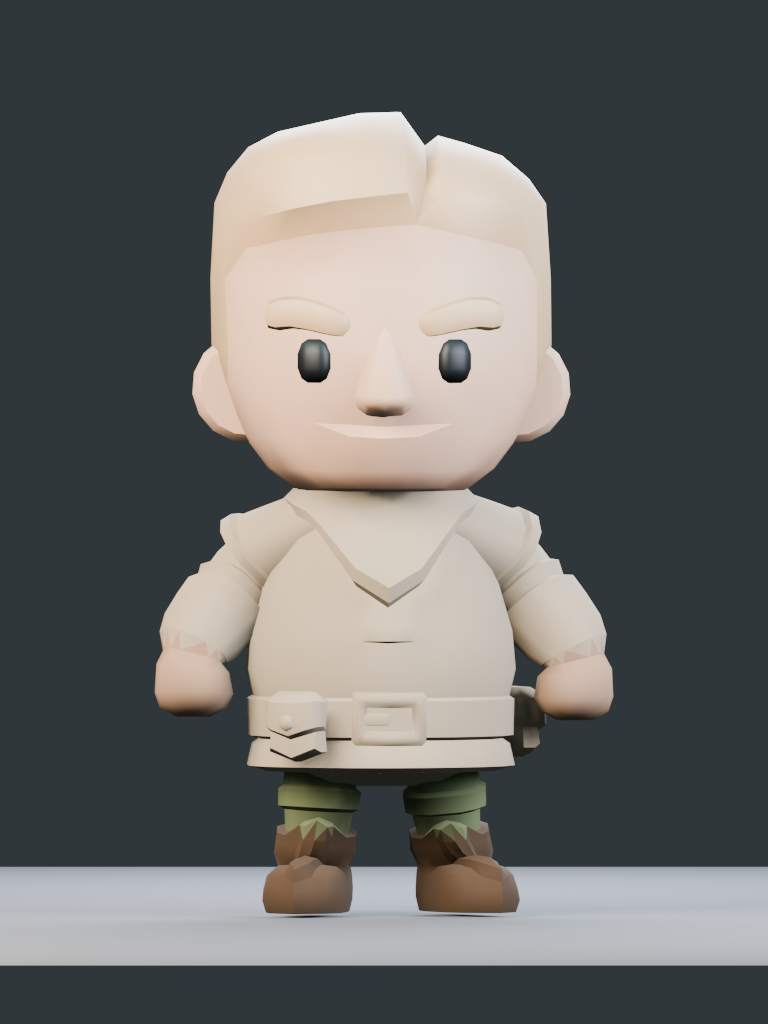
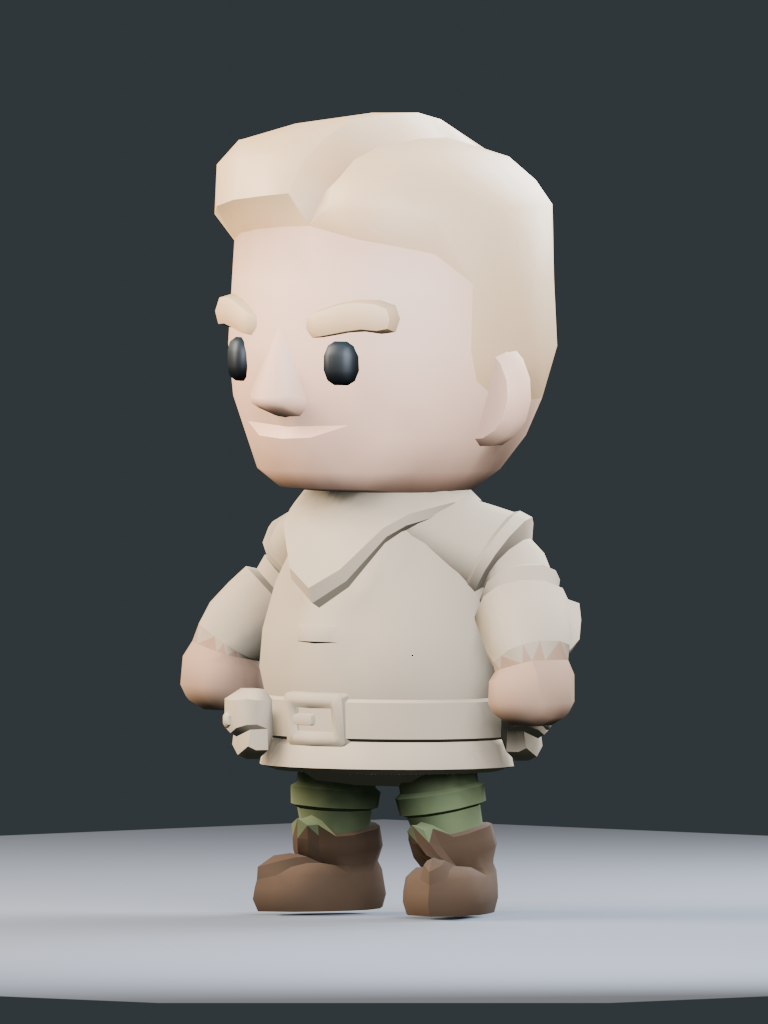
Improve character selection thumbnails [astra-validate]
Astra-Check: apps/character-studio/src/review/character/grid.js, apps/character-studio/src/review/character/grid.css
Astra-Test: node --test apps/character-studio/tests/character-review-grid.test.mjs
Astra-Build: npm run build -w @soul/character-studio

diff --git a/apps/character-studio/src/review/character/grid.css b/apps/character-studio/src/review/character/grid.css
@@ -29,13 +29,31 @@ body.simple-review.character-grid-ready .review-controls{height:100%!important;m
 }
 .character-model-card{
   position:relative;min-width:0!important;height:var(--character-card-row)!important;min-height:0!important;
-  display:grid!important;grid-template-rows:minmax(0,1fr) auto;align-items:center;gap:3px!important;padding:5px 3px 6px!important;
-  border:1px solid #39413e!important;border-radius:9px!important;background:#101715!important;color:#d6ddd9!important;text-align:center!important;overflow:hidden
+  display:grid!important;grid-template-rows:minmax(0,1fr) auto;align-items:center;gap:2px!important;padding:3px 3px 5px!important;
+  border:1px solid #39413e!important;border-radius:9px!important;background:#111916!important;color:#d6ddd9!important;text-align:center!important;overflow:hidden;
+  box-shadow:inset 0 1px #ffffff12,0 2px 6px #0003!important;transition:border-color .16s ease,background .16s ease,transform .16s ease
 }
-.character-model-card[aria-selected="true"]{border-color:#d7c58b!important;background:#29271f!important;color:#fff1c8!important;box-shadow:inset 0 -2px #d7c58b!important}
+.character-model-card:hover:not(:disabled){border-color:#8fa79b!important;transform:translateY(-1px)}
+.character-model-card:focus-visible{outline:2px solid #d7c58b!important;outline-offset:2px}
+.character-model-card[aria-selected="true"]{border-color:#d7c58b!important;background:#29271f!important;color:#fff1c8!important;box-shadow:inset 0 -2px #d7c58b,0 0 0 1px #d7c58b55!important}
 .character-model-card[aria-selected="true"]::after{content:"";position:absolute;top:5px;right:5px;width:6px;height:6px;border-radius:50%;background:#e2cc8e;box-shadow:0 0 0 2px #171a16cc}
-.character-model-card-label{min-width:0;font-size:9px;line-height:1.15;white-space:normal;overflow-wrap:anywhere}
-.character-model-thumbnail{display:block;width:100%;height:100%;min-height:0;object-fit:contain;border-radius:5px}
+.character-model-card-art{
+  position:relative;isolation:isolate;display:block;width:100%;height:100%;min-height:0;overflow:hidden;border-radius:6px;
+  background:radial-gradient(ellipse 82% 60% at 50% 40%,#41594a 0%,#25352e 58%,#161f1b 100%)
+}
+.character-model-card-art::after{
+  content:"";position:absolute;inset:auto 7% 3px;height:16%;border-radius:50%;background:#8995793b;filter:blur(1px);pointer-events:none
+}
+.character-model-thumbnail{position:relative;z-index:1;display:block;width:100%;height:100%;min-height:0;object-fit:contain;filter:drop-shadow(0 2px 2px #0008)}
+/* The two protagonist images and Golden Base source have different framing from the KayKit renders. */
+.character-model-card-art[data-portrait="hero"]{background:#2d3638}
+.character-model-card-art[data-portrait="hero"] img{object-fit:cover;object-position:center 49%;transform:scale(1.14);mask-image:linear-gradient(to bottom,transparent 0%,#000 8%,#000 88%,transparent 100%)}
+.character-model-card-art[data-portrait="heroine"]{background:#203238}
+.character-model-card-art[data-portrait="heroine"] img{object-fit:cover;object-position:center 34%;transform:scale(1.13);mask-image:linear-gradient(to bottom,transparent 0%,#000 8%,#000 91%,transparent 100%)}
+.character-model-card-art[data-portrait="golden"]{background:#e9ded9}
+.character-model-card-art[data-portrait="golden"] img{object-fit:cover;object-position:center 48%;transform:scale(1.08);mix-blend-mode:multiply}
+.character-model-card-art[data-portrait="golden"]::after{background:#ab9a8c55}
+.character-model-card-label{position:relative;z-index:1;min-width:0;font-size:9px;line-height:1.15;white-space:normal;overflow-wrap:anywhere;text-shadow:0 1px 2px #0006}
 .character-review-empty{margin:0;padding:10px 2px;color:#929e98;font-size:10px}
 
 .character-review-stage-name{

diff --git a/apps/character-studio/src/review/character/grid.js b/apps/character-studio/src/review/character/grid.js
@@ -197,15 +197,20 @@ export function installCharacterReviewGrid(doc = document, win = window) {
       button.setAttribute('role', 'option');
       button.setAttribute('aria-selected', String(model.selected));
       button.setAttribute('aria-label', model.stage ? `${model.label}、${model.stage}` : model.label);
+      const art = make('span', 'character-model-card-art');
+      if (model.key === 'protagonist.villager.v1') art.dataset.portrait = 'hero';
+      if (model.key === 'protagonist.villager.female.v1') art.dataset.portrait = 'heroine';
+      if (model.key === 'img2threejs.bald-chibi.v1') art.dataset.portrait = 'golden';
       if (model.thumbnailUrl) {
         if (model.thumbnailKind === 'svg-symbol') {
-          button.append(createReviewSvgThumbnail(model.thumbnailUrl, { className: 'character-model-thumbnail', decorative: true, doc }));
+          art.append(createReviewSvgThumbnail(model.thumbnailUrl, { className: 'character-model-thumbnail', decorative: true, doc }));
         } else {
           const image = make('img', 'character-model-thumbnail');
           image.src = model.thumbnailUrl; image.alt = ''; image.loading = 'lazy'; image.decoding = 'async';
-          image.width = 288; image.height = 184; button.append(image);
+          image.width = 288; image.height = 184; art.append(image);
         }
       }
+      button.append(art);
       button.append(make('strong', 'character-model-card-label', model.label));
       button.addEventListener('click', () => choose(model));
       return button;
